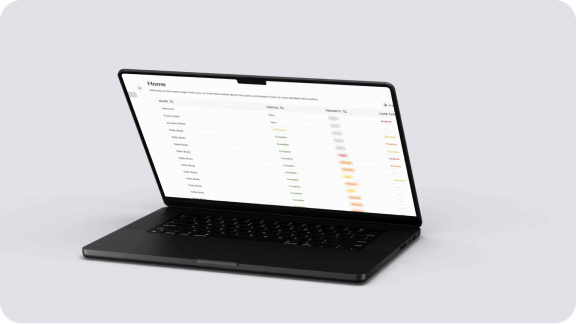
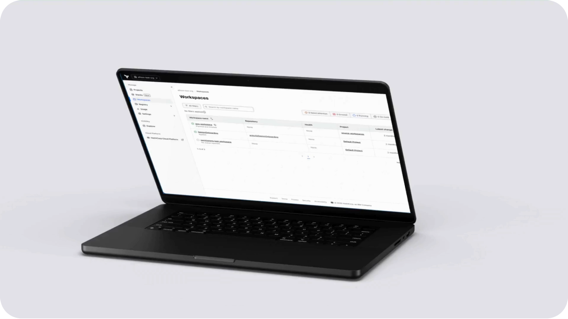
New OSE and Terraform text

diff --git a/projects/operation-safe-escape.html b/projects/operation-safe-escape.html
@@ -175,9 +175,9 @@
         <span class="bc-heading__rule" aria-hidden="true"></span>
       </div>
       <ol class="bc-numbered">
-        <li>Since this wasn't a normal internal tool, I designed every screen around who was really behind the data, people fleeing abuse, knowing that even a small misstep could put someone at real risk.</li>
-        <li>Before I designed the workflow, I spent time learning how survivor support actually plays out, since it's an ongoing relationship between admins, volunteers, and the survivor rather than a single interaction.</li>
-        <li>Since each case held dozens of fields, I had to decide what to show first, figuring out what a volunteer needed to see in the first three seconds versus what could wait one click deeper, which drove the priority tags, status labels, and case-type flags.</li>
+        <li>Unlike typical internal software, Safe Escape handles sensitive data for people actively fleeing abuse, so I designed every screen to protect survivor privacy and safety above all else.</li>
+        <li>Because supporting a survivor is an ongoing process rather than a single interaction, I mapped out workflows that seamlessly connect survivors, admins, and assigned volunteers throughout the case.</li>
+        <li>Since each case contained a massive amount of data, I structured the information to give volunteers what they needed in the first few seconds while keeping deeper details easily accessible.</li>
       </ol>
     </section>
 

diff --git a/index.html b/index.html
@@ -112,7 +112,7 @@
       -->
       <div
         class="home-card home-card--terraform home-card--soon"
-        aria-label="Terraform Read-Only Initiative — Coming soon"
+        aria-label="Terraform Read-Only Governance Experiences — Coming soon"
         id="terraform"
       >
         <div class="home-card__inner">
@@ -123,14 +123,14 @@
               loop
               playsinline
               preload="metadata"
-              poster="assets/home-media-terraform-2x.png?v=cards2"
+              poster="assets/home-media-terraform-2x.png?v=cards3"
             >
               <source src="assets/videos/terraform-card.mp4?v=cards2" type="video/mp4">
             </video>
           </div>
           <div class="home-card__body">
             <div class="home-card__copy">
-              <h2 class="home-card__title">Terraform Read-Only Initiative</h2>
+              <h2 class="home-card__title">Terraform Read-Only Governance Experiences</h2>
               <p class="home-card__desc">
                 Improving visibility and compliance in Terraform Enterprise by giving read-only users access to critical settings without compromising security.
               </p>
